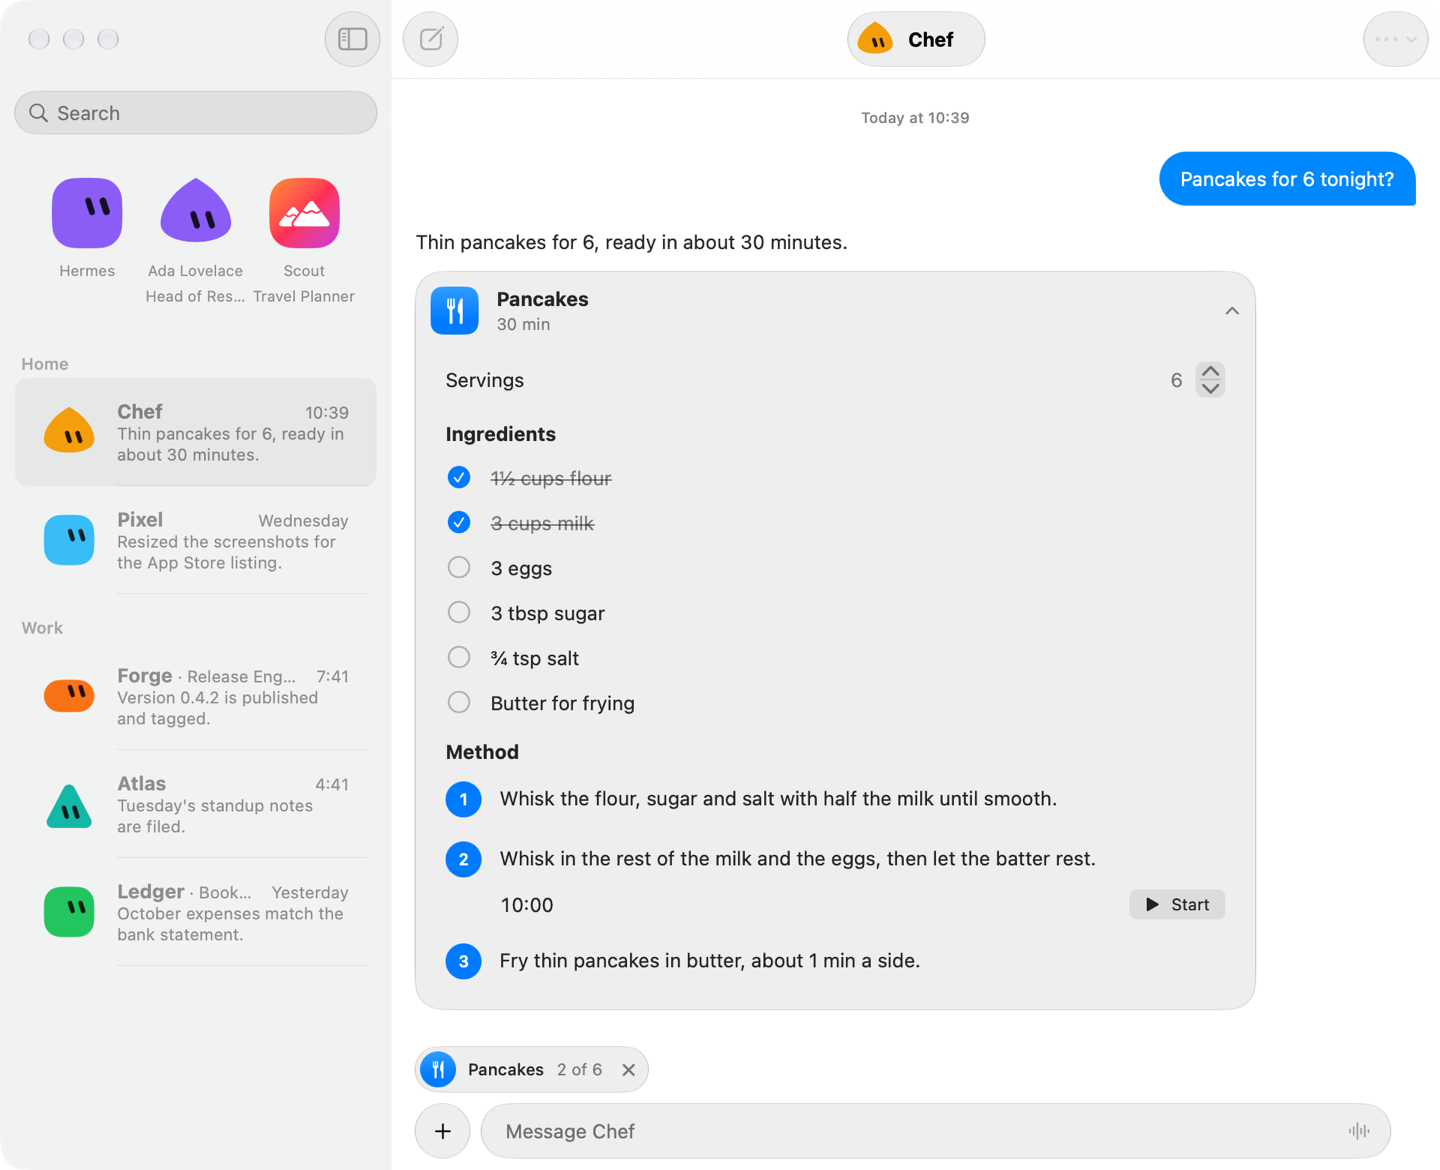
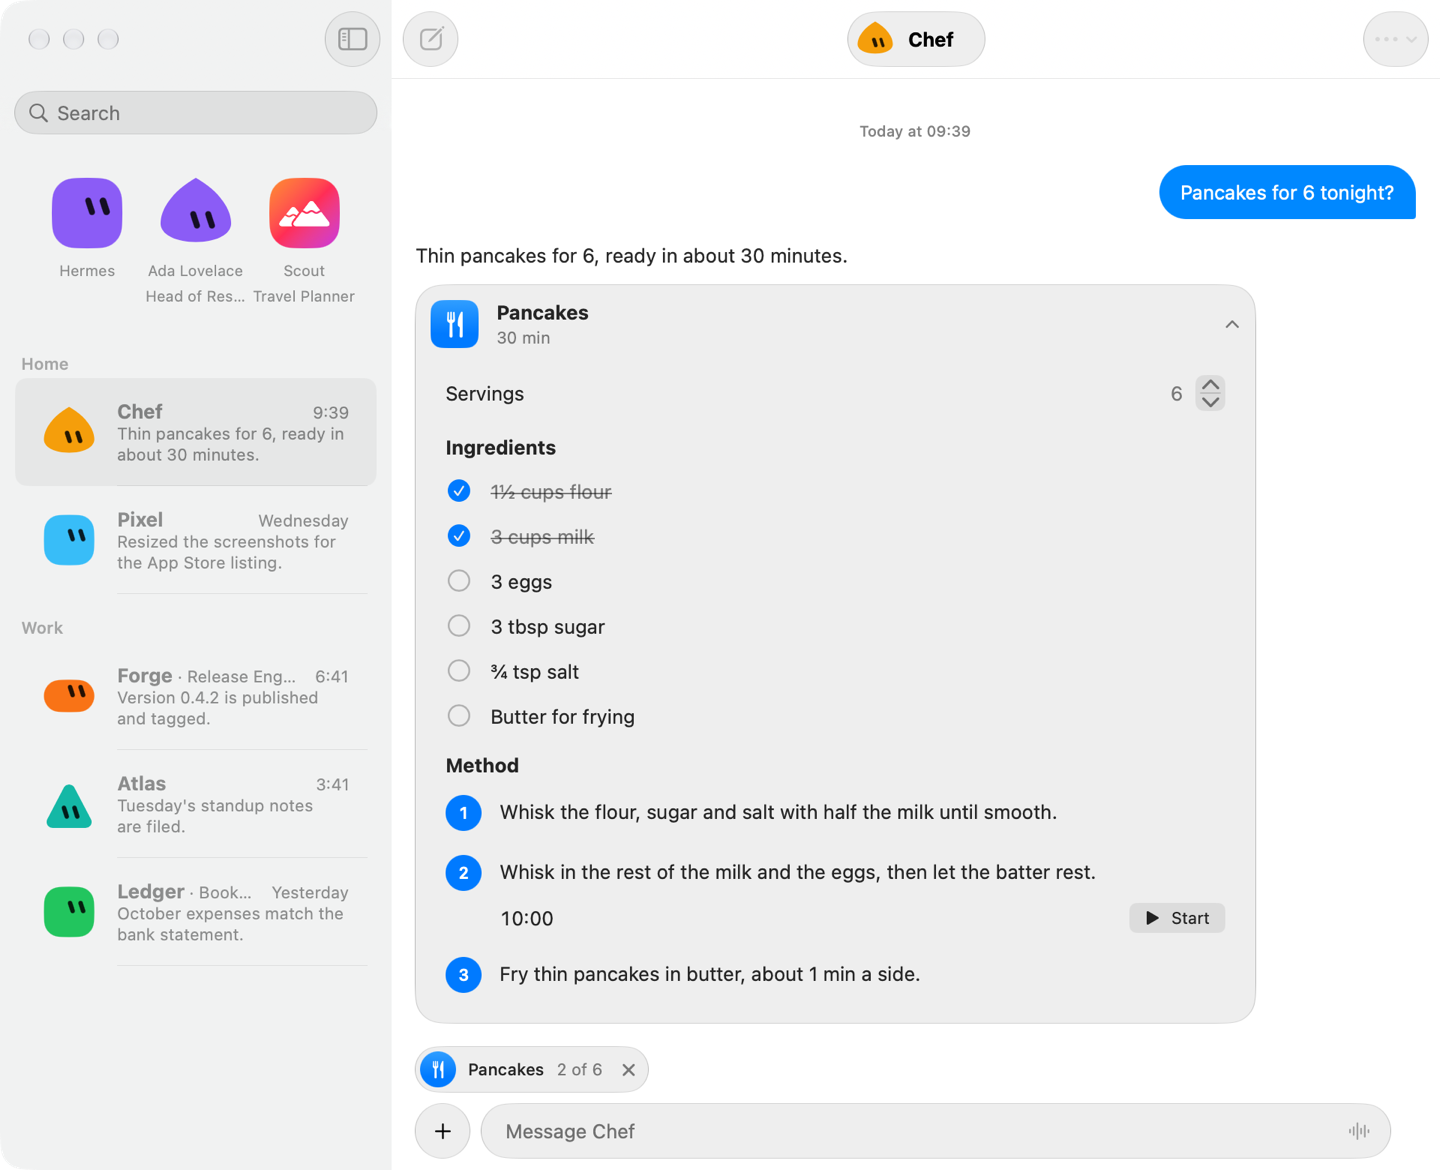
README hero: iPhone bot list beside the Mac shot, scene times anchored to the 9:41 status bar

diff --git a/Sources/SnapshotFixtures.swift b/Sources/SnapshotFixtures.swift
@@ -78,16 +78,17 @@ extension Snapshot {
             ], statuses: ["scout": .unread, "ghost": .unread])
         }
         if self == .readme {
+            let sinceClock = Date.now.timeIntervalSince(Snapshot.statusBarClock) / 60
             return BotStore(fixture: [
-                bot("default", 25, "Your inbox is clear. Two invoices are waiting for approval.", BotMeta(pinned: true)),
-                bot("ada", 60 * 2, "The survey results are summarised in a one-page brief.", BotMeta(title: "Ada Lovelace", role: "Head of Research and Analytics", color: "#8b5cf6", pinned: true)),
-                bot("scout", 60 * 5, "Found three direct flights to Lisbon for the long weekend.", BotMeta(title: "Scout", role: "Travel Planner", color: "#38bdf8", pinned: true)),
-                bot("chef", 2, ChatFixture.readmeReply, BotMeta(title: "Chef", color: "#f59e0b", sectionID: "home", sectionName: "Home")),
-                bot("pixel", 60 * 24 * 2, "Resized the screenshots for the App Store listing.", BotMeta(title: "Pixel", sectionID: "home", sectionName: "Home")),
-                bot("forge", 60 * 3, "Version 0.4.2 is published and tagged.", BotMeta(title: "Forge", role: "Release Engineer", color: "#f97316", sectionID: "work", sectionName: "Work")),
-                bot("atlas", 60 * 6, "Tuesday's standup notes are filed.", BotMeta(title: "Atlas", color: "#14b8a6", sectionID: "work", sectionName: "Work")),
-                bot("ledger", 60 * 26, "October expenses match the bank statement.", BotMeta(title: "Ledger", role: "Bookkeeper", color: "#22c55e", sectionID: "work", sectionName: "Work")),
-            ], statuses: ["atlas": .unread], photos: Snapshot.samplePhoto.map { ["scout": $0] } ?? [:])
+                bot("default", sinceClock + 25, "Your inbox is clear. Two invoices are waiting for approval.", BotMeta(pinned: true)),
+                bot("ada", sinceClock + 60 * 2, "The survey results are summarised in a one-page brief.", BotMeta(title: "Ada Lovelace", role: "Head of Research and Analytics", color: "#8b5cf6", pinned: true)),
+                bot("scout", sinceClock + 60 * 5, "Found three direct flights to Lisbon for the long weekend.", BotMeta(title: "Scout", role: "Travel Planner", color: "#38bdf8", pinned: true)),
+                bot("chef", sinceClock + 2, ChatFixture.readmeReply, BotMeta(title: "Chef", color: "#f59e0b", sectionID: "home", sectionName: "Home")),
+                bot("pixel", sinceClock + 60 * 24 * 2, "Resized the screenshots for the App Store listing.", BotMeta(title: "Pixel", sectionID: "home", sectionName: "Home")),
+                bot("forge", sinceClock + 60 * 3, "Version 0.4.2 is published and tagged.", BotMeta(title: "Forge", role: "Release Engineer", color: "#f97316", sectionID: "work", sectionName: "Work")),
+                bot("atlas", sinceClock + 60 * 6, "Tuesday's standup notes are filed.", BotMeta(title: "Atlas", color: "#14b8a6", sectionID: "work", sectionName: "Work")),
+                bot("ledger", sinceClock + 60 * 26, "October expenses match the bank statement.", BotMeta(title: "Ledger", role: "Bookkeeper", color: "#22c55e", sectionID: "work", sectionName: "Work")),
+            ], statuses: [:], photos: Snapshot.samplePhoto.map { ["scout": $0] } ?? [:])
         }
         if self == .sidebarHidden {
             return BotStore(fixture: [
@@ -119,7 +120,10 @@ extension Snapshot {
     }
 
     var selectedBot: Bot.ID? {
-        [.layout: "ada", .readme: "chef", .layoutInspector: "pixel", .sidebarCompact: "forge", .searchResult: "default", .chatWindow: "ada", .chatWindowInspector: "ada", .chatWindowMissing: "gone"][self]
+        #if os(iOS)
+        if self == .readme { return nil }
+        #endif
+        return [.layout: "ada", .readme: "chef", .layoutInspector: "pixel", .sidebarCompact: "forge", .searchResult: "default", .chatWindow: "ada", .chatWindowInspector: "ada", .chatWindowMissing: "gone"][self]
     }
 
     var searchQuery: String? {
@@ -166,11 +170,13 @@ extension Snapshot {
             return ChatSessions(fixture: ["scout": ChatSession(fixture: scout, transcript: Transcript(turns: [turn]), todos: [])])
         }
         if self == .readme, let chef = bots.bots.first(where: { $0.id == "chef" }) {
-            return ChatSessions(fixture: ["chef": ChatSession(fixture: chef, transcript: Transcript(turns: ChatFixture.readmeTurns(.now)), todos: [])])
+            return ChatSessions(fixture: ["chef": ChatSession(fixture: chef, transcript: Transcript(turns: ChatFixture.readmeTurns(Snapshot.statusBarClock)), todos: [])])
         }
         guard let id = selectedBot ?? (self == .sidebarSearch ? "default" : nil), let bot = bots.bots.first(where: { $0.id == id }) else { return ChatSessions() }
         return ChatSessions(fixture: [id: ChatSession(fixture: bot, transcript: ChatFixture.history.transcript, todos: [], context: ContextUsage(used: 277_700, window: 1_000_000))])
     }
+
+    static let statusBarClock = Calendar.current.date(bySettingHour: 9, minute: 41, second: 0, of: .now) ?? .now
 
     static var samplePhoto: Image? {
         let renderer = ImageRenderer(content:

diff --git a/README.md b/README.md
@@ -13,7 +13,8 @@ Chat with every bot on your server, hear back on the lock screen, and get replie
 </div>
 
 <p align="center">
-  <img src="docs/images/mac.png" width="720" alt="Crew on the Mac: the bot list, a chat and a recipe card">
+  <img src="docs/images/mac.png" width="580" alt="Crew on the Mac: the bot list, a chat and a recipe card">
+  <img src="docs/images/iphone.png" width="216" alt="Crew on iPhone: the bot list">
 </p>
 
 ## What it does
